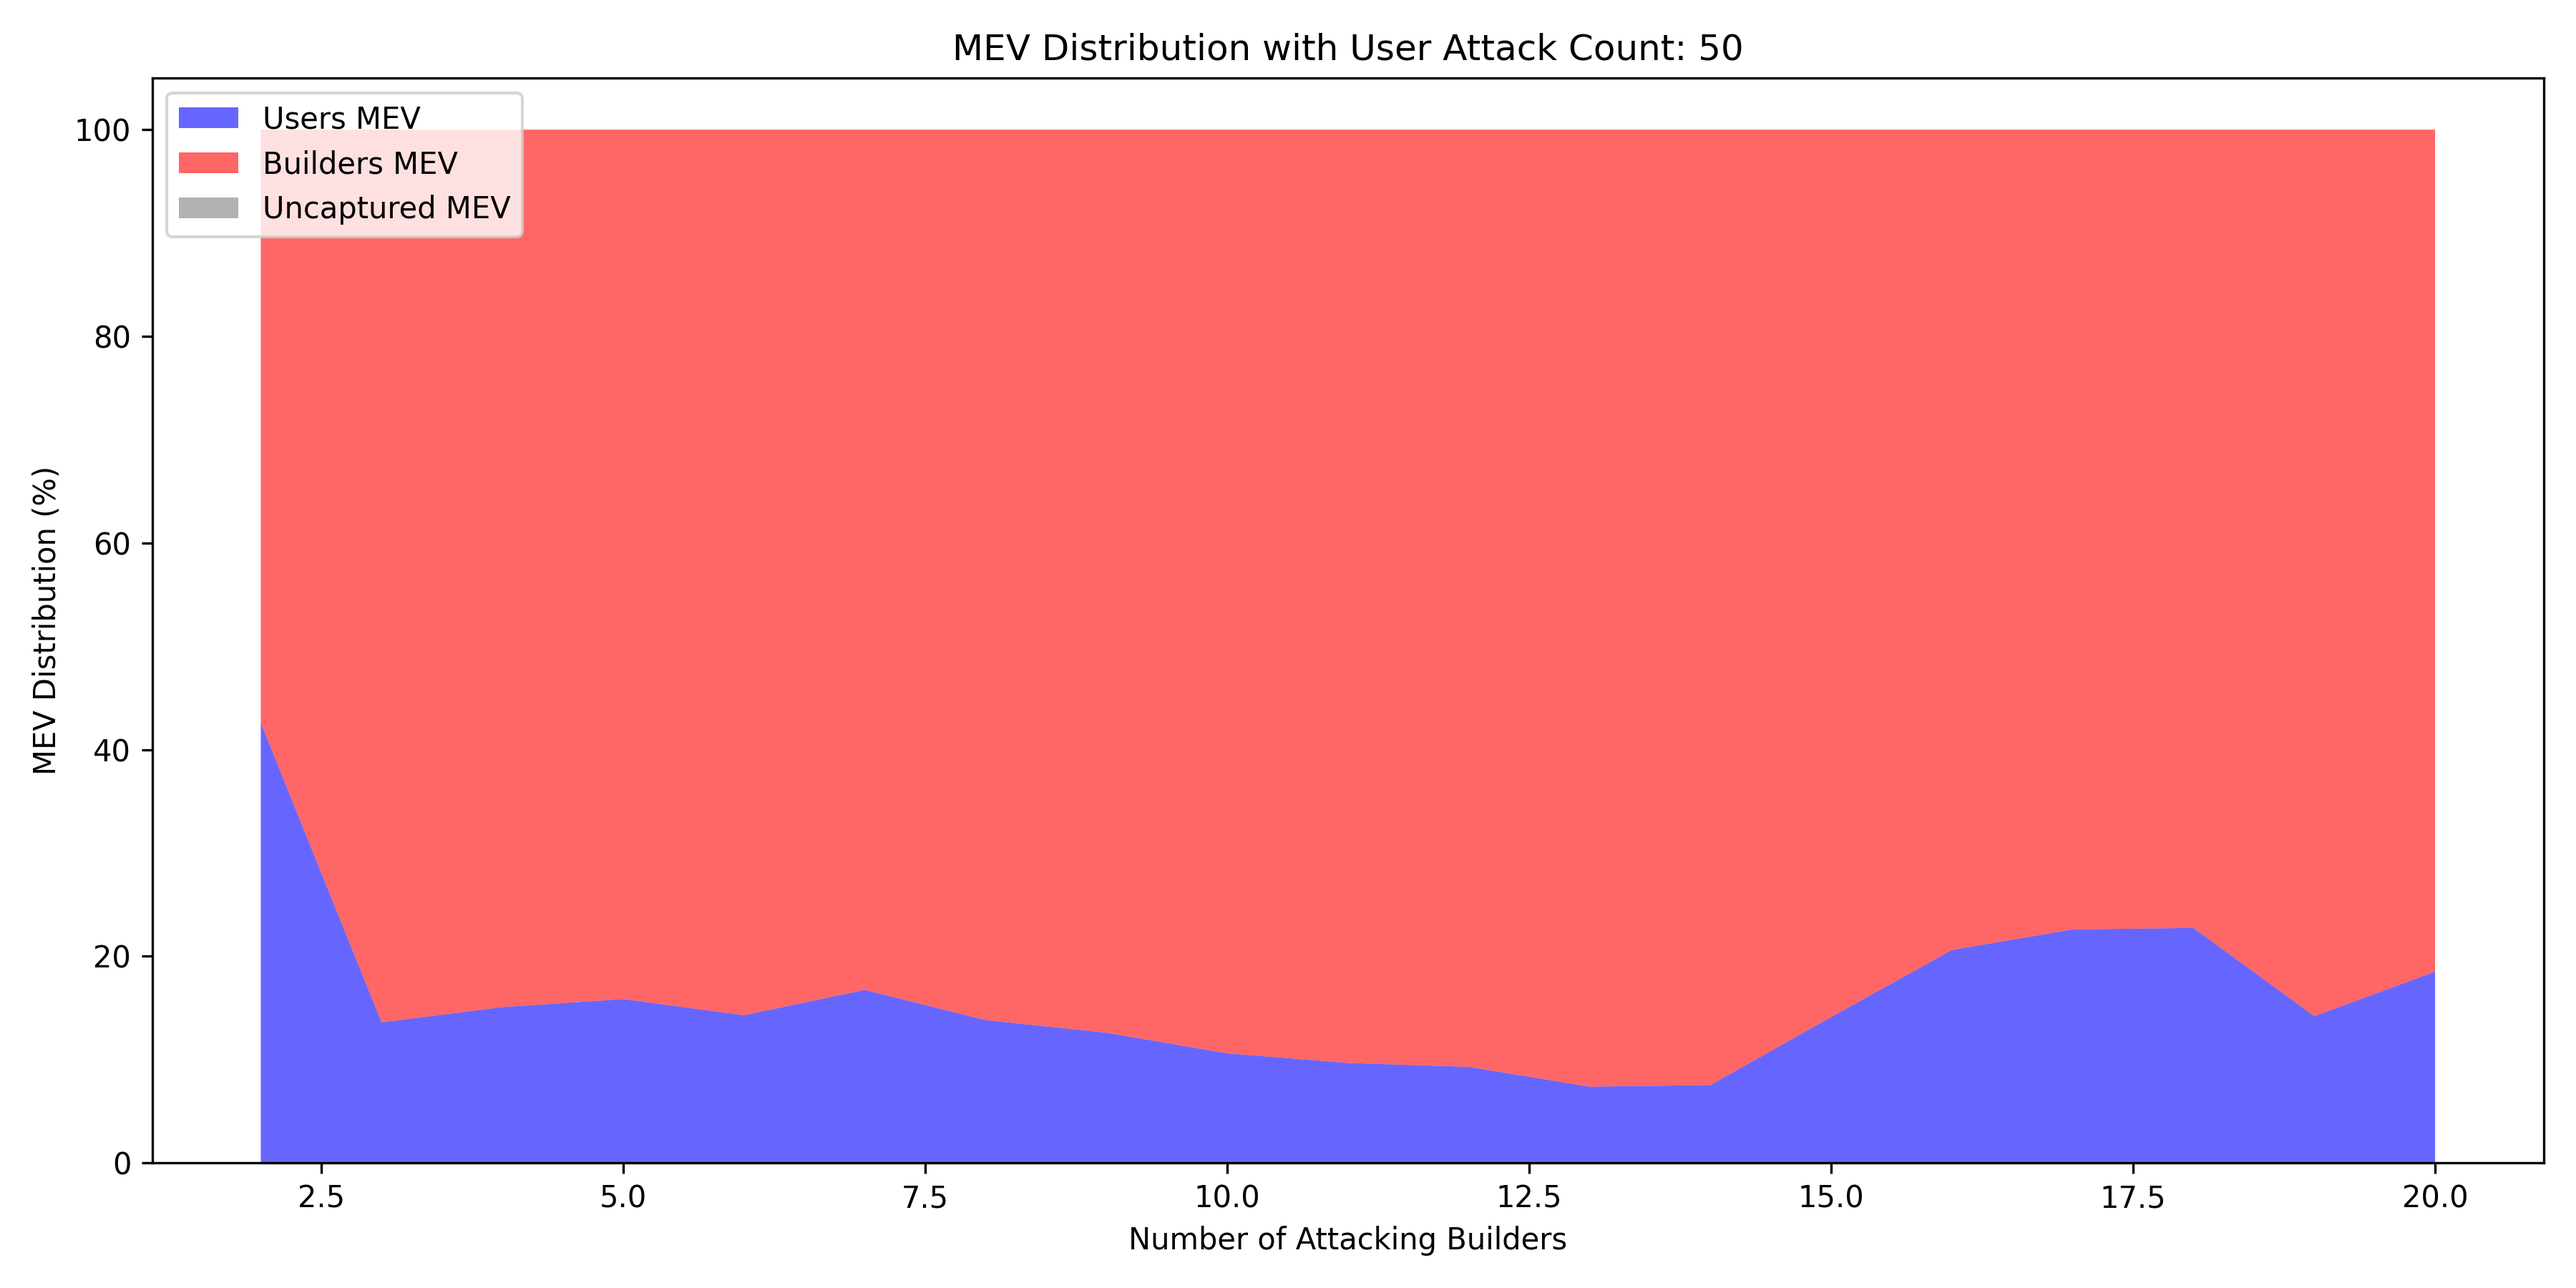
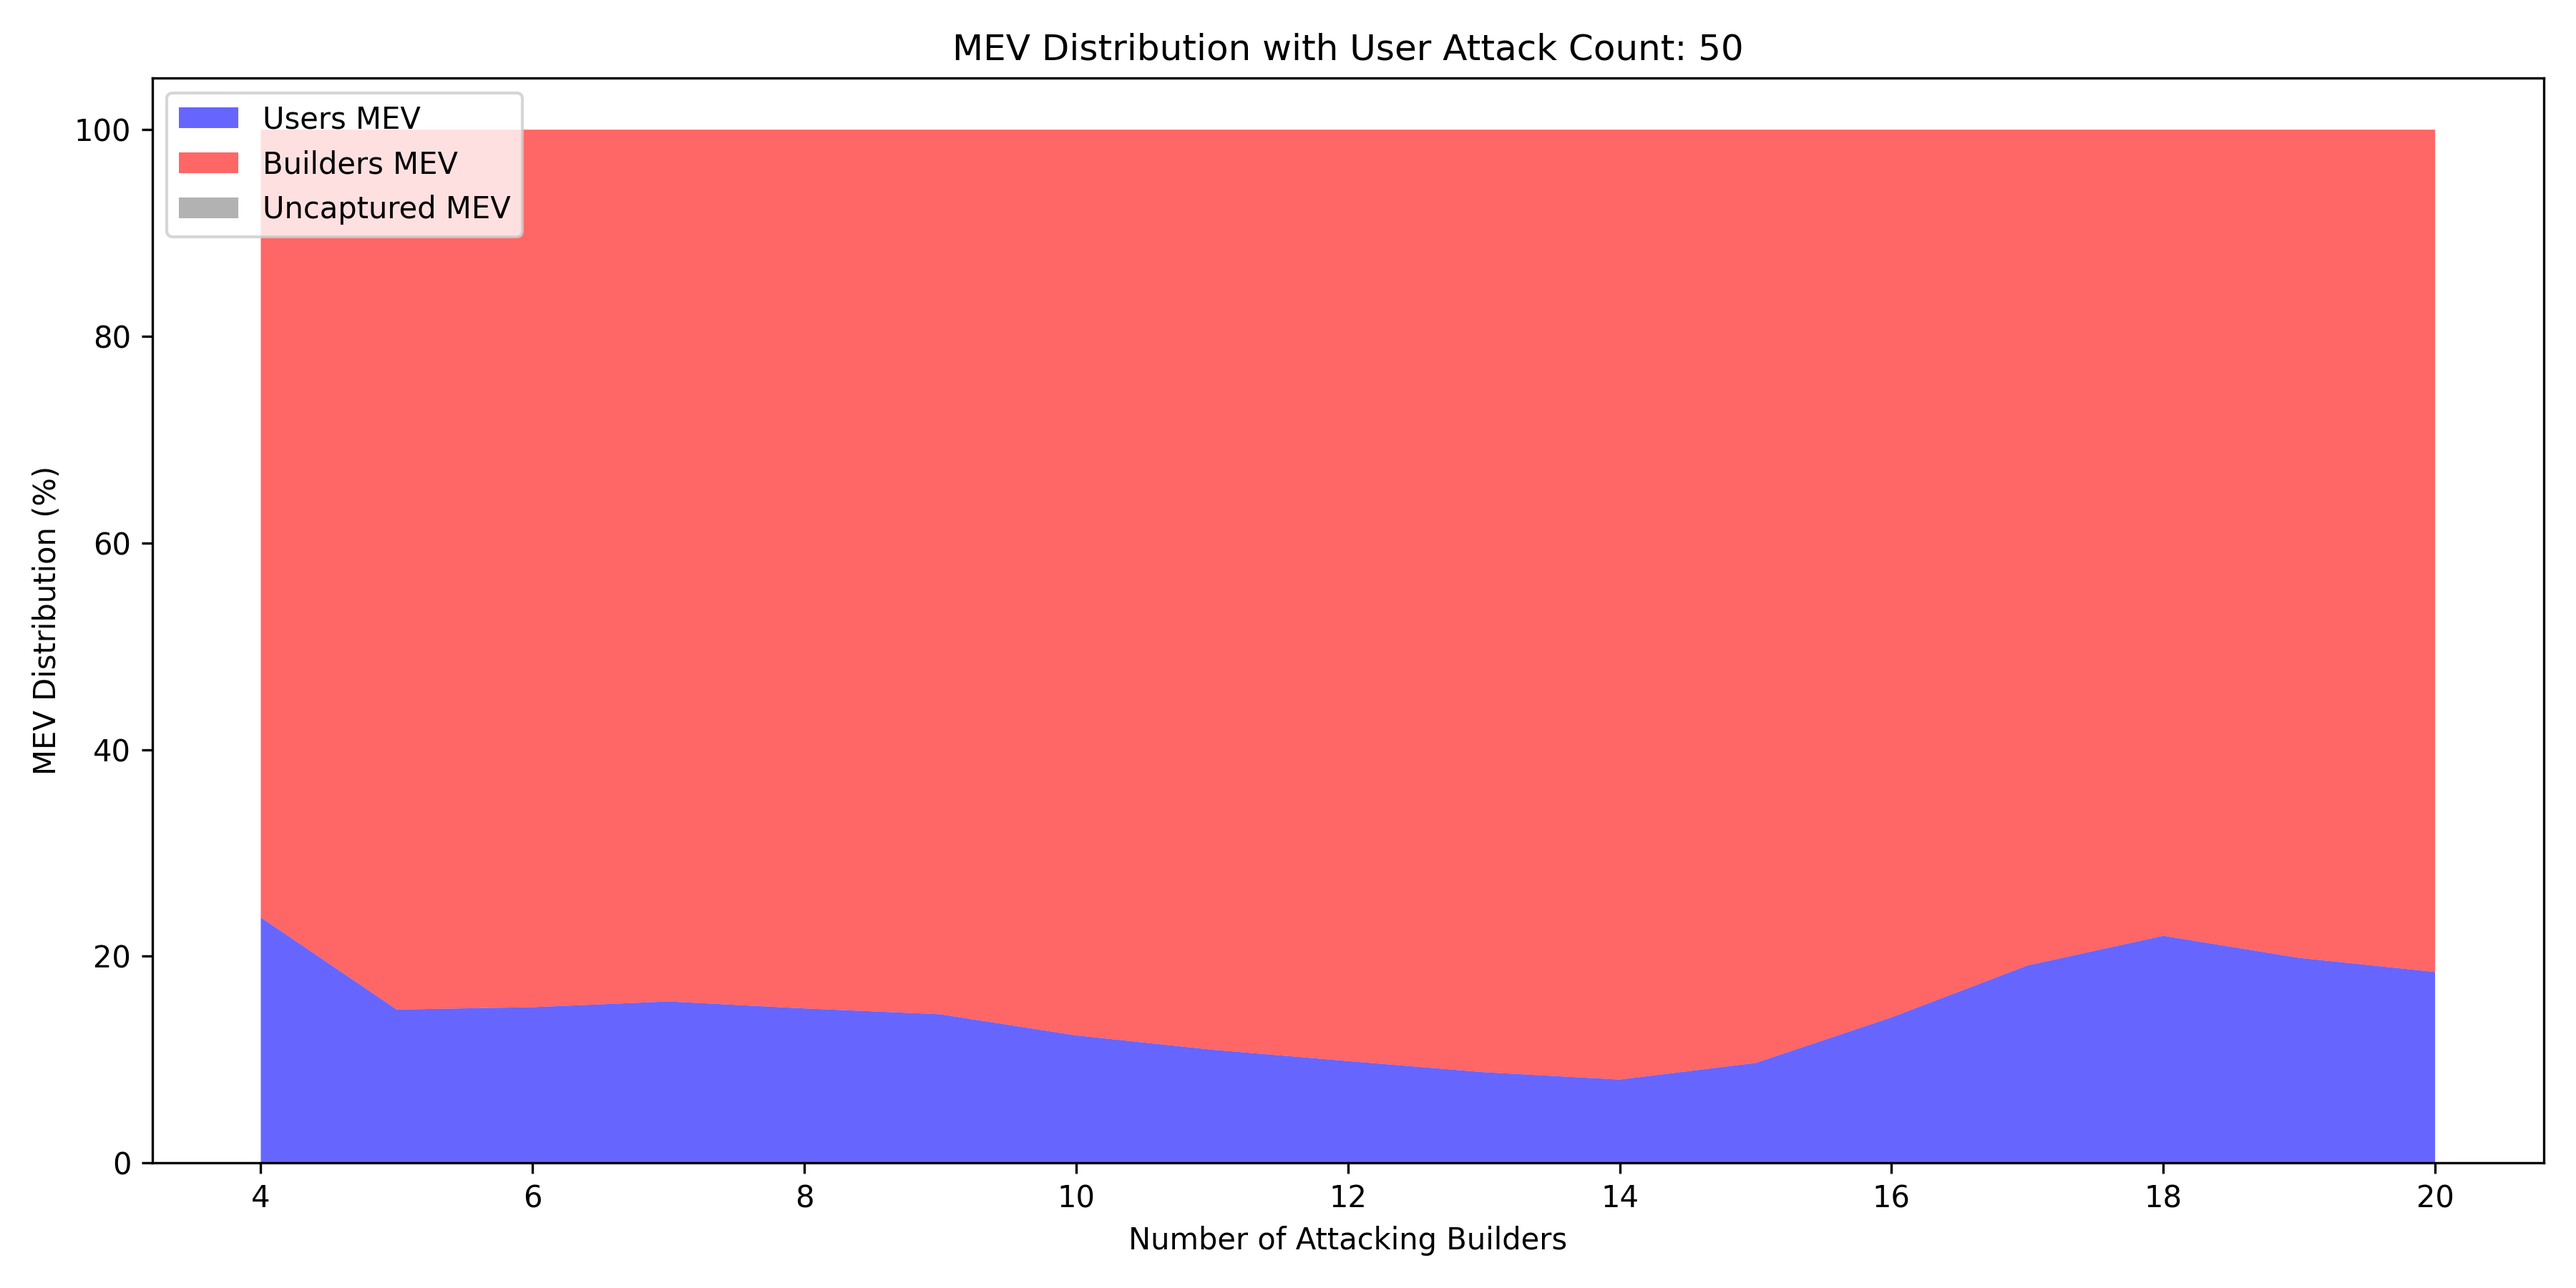
50 users

diff --git a/plots/ss/pbs_profit.py b/plots/ss/pbs_profit.py
@@ -10,9 +10,8 @@ def calculate_mev_distribution_from_transactions(file_path):
     
     with open(file_path, 'r') as f:
         reader = csv.DictReader(f)
-        fieldnames = set(reader.fieldnames)
         
-        if not required_fields.issubset(fieldnames):
+        if not required_fields.issubset(reader.fieldnames):
             print(f"Skipping file {file_path} due to missing fields.")
             return None
 
@@ -83,17 +82,24 @@ def plot_mev_distribution(aggregated_data, user_attack_count, save_path):
     user_mev_percent = [100 * u / t if t > 0 else 0 for u, t in zip(user_mev, total_mev)]
     uncaptured_mev_percent = [100 * u / t if t > 0 else 0 for u, t in zip(uncaptured_mev, total_mev)]
 
-    smooth_builder_mev = smooth_data(builder_mev_percent)
-    smooth_user_mev = smooth_data(user_mev_percent)
-    smooth_uncaptured_mev = smooth_data(uncaptured_mev_percent)
+    # Apply additional smoothing if user_attack_count is 50
+    if user_attack_count == 50:
+        smooth_builder_mev = smooth_data(smooth_data(builder_mev_percent))
+        smooth_user_mev = smooth_data(smooth_data(user_mev_percent))
+        smooth_uncaptured_mev = smooth_data(smooth_data(uncaptured_mev_percent))
+        builder_counts = builder_counts[len(builder_counts) - len(smooth_user_mev):]
+    else:
+        smooth_builder_mev = builder_mev_percent
+        smooth_user_mev = user_mev_percent
+        smooth_uncaptured_mev = uncaptured_mev_percent
 
     print("Exact Gwei Values:")
     for count, total, builder, user, uncaptured in zip(builder_counts, total_mev, builder_mev, user_mev, uncaptured_mev):
         print(f"Attack Builders: {count}, Total MEV: {total} Gwei, Builders MEV: {builder} Gwei, Users MEV: {user} Gwei, Uncaptured MEV: {uncaptured} Gwei")
 
     plt.figure(figsize=(12, 6))
-    plt.stackplot(builder_counts[len(builder_counts) - len(smooth_user_mev):], smooth_user_mev, smooth_builder_mev, smooth_uncaptured_mev,
-                  labels=["Users MEV", "Builders MEV", "Uncaptured MEV"], colors=["blue", "red", "grey"], alpha=0.6)m
+    plt.stackplot(builder_counts, smooth_user_mev, smooth_builder_mev, smooth_uncaptured_mev,
+                  labels=["Users MEV", "Builders MEV", "Uncaptured MEV"], colors=["blue", "red", "grey"], alpha=0.6)
     plt.xlabel("Number of Attacking Builders")
     plt.ylabel("MEV Distribution (%)")
     plt.title(f"MEV Distribution with User Attack Count: {user_attack_count}")
